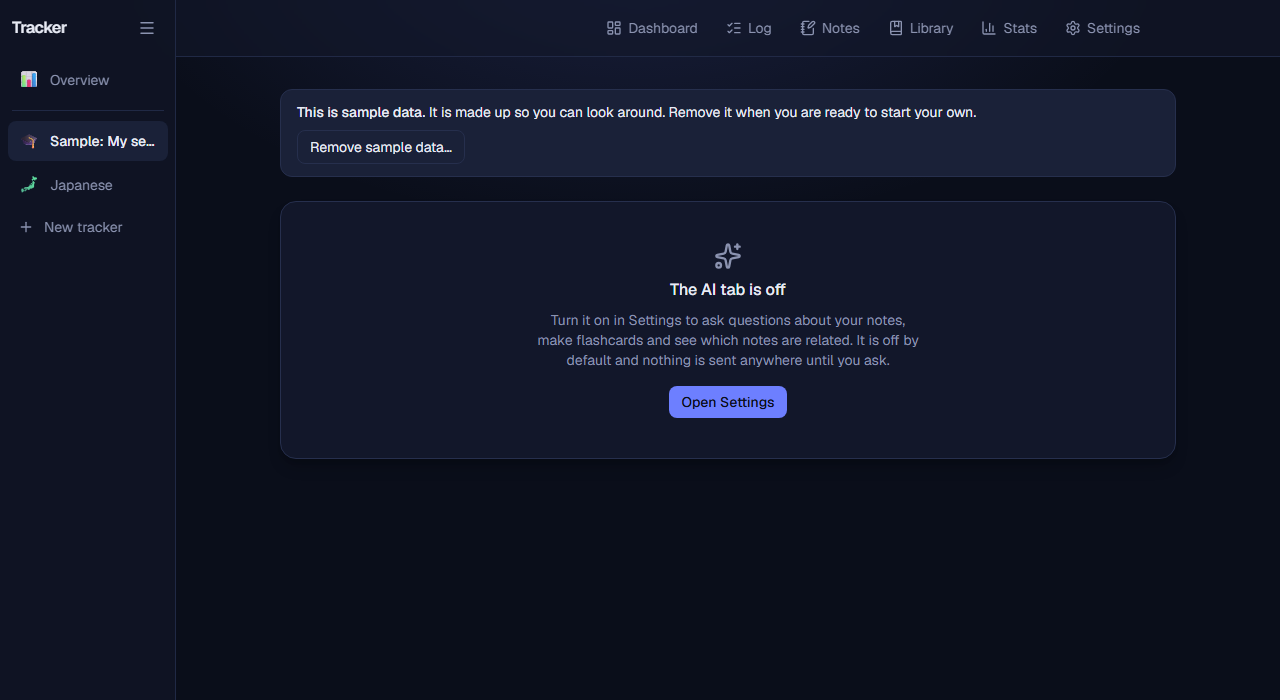
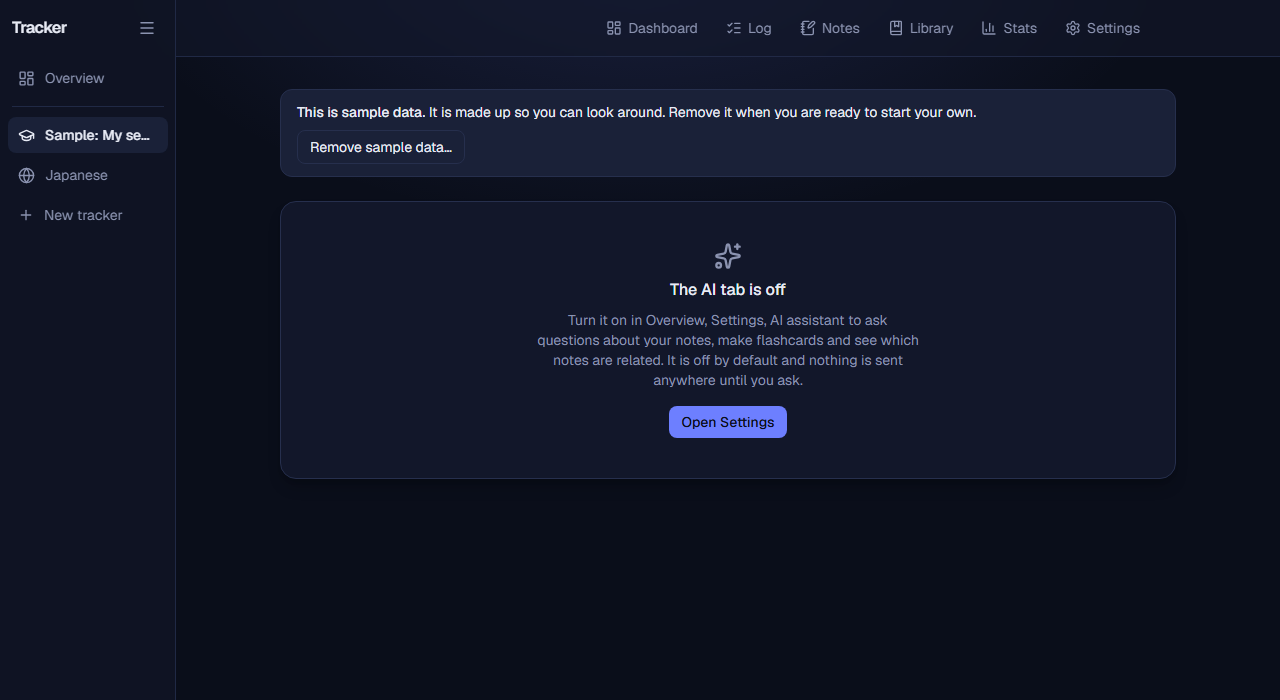
Update the site

diff --git a/docs/manual.html b/docs/manual.html
@@ -23,7 +23,7 @@
   </header>
 
   <h1>The full user manual</h1>
-  <p class="lead">Everything Tracker does, part by part. New here? Start with <a href="guide.html">Getting started in ten minutes</a>. This manual describes version 0.4.0; later versions may add things, and Settings, About lists what changed.</p>
+  <p class="lead">Everything Tracker does, part by part. New here? Start with <a href="guide.html">Getting started in ten minutes</a>. This manual describes version 0.5.0; later versions may add things, and Overview, Settings, About lists what changed.</p>
 
   <div class="layout">
     <nav class="toc" aria-label="Contents">
@@ -72,6 +72,7 @@
         <table>
           <tr><th>Piece</th><th>What it is</th></tr>
           <tr><td><strong>Tracker</strong></td><td>One area of your life or studies, for example &ldquo;Japanese&rdquo; or &ldquo;My degree&rdquo;. You can have as many as you like; each has its own pages, courses, activities, notes and library. They are listed in the sidebar.</td></tr>
+          <tr><td><strong>Symbol</strong></td><td>The small icon of a tracker, picked from a set (there are no emoji). It is shown in the sidebar and on the Overview.</td></tr>
           <tr><td><strong>Course</strong></td><td>A part of a tracker: a course, a language, a topic. You choose the word (Course, Skill, Language, Topic...). It also appears as a &ldquo;subfield&rdquo; in some places.</td></tr>
           <tr><td><strong>Activity</strong></td><td>What you did: Reading, Lecture, Practice, Listening, Writing...</td></tr>
           <tr><td><strong>Session</strong></td><td>One stretch of time: a course, an activity, a start, a length, and optionally a note and a book.</td></tr>
@@ -79,7 +80,8 @@
           <tr><td><strong>Book or article</strong></td><td>A text in your Library that you read and can attach sessions and notes to.</td></tr>
           <tr><td><strong>Goal</strong></td><td>A weekly or total number of hours for a course, or a daily goal for the tracker.</td></tr>
         </table>
-        <p>Each tracker has six pages along the top: <strong>Dashboard</strong>, <strong>Log</strong>, <strong>Notes</strong>, <strong>Library</strong>, <strong>Stats</strong> and <strong>Settings</strong>. <strong>Overview</strong>, at the top of the sidebar, combines all your trackers.</p>
+        <p>Each tracker has six pages along the top: <strong>Dashboard</strong>, <strong>Log</strong>, <strong>Notes</strong>, <strong>Library</strong>, <strong>Stats</strong> and <strong>Settings</strong>, which holds the settings of that tracker only (its courses, activities, name, symbol and goals). <strong>Overview</strong>, at the top of the sidebar, combines all your trackers and has two pages of its own: <strong>Overview</strong> and <strong>Settings</strong>, which holds the settings of the whole program (data and backups, theme, library, book search, the AI assistant, the notes graph, privacy and about). In this manual, &ldquo;Overview, Settings, Privacy&rdquo; means the Privacy section of that second page.</p>
+        <figure class="shot"><a class="zoom" href="img/settings-general.png"><img src="img/settings-general.png" width="1280" height="900" alt="The settings of the Overview: the Overview and Settings tabs at the top, Data and backups open with its download buttons, Back up now and Import from a file, and the sections Theme, Library and Book search minimised below it." loading="lazy"></a><figcaption>Overview, Settings, with some sections minimised.</figcaption></figure>
 
         <h2 id="running">2. Installing, starting, quitting</h2>
         <h3>Installing</h3>
@@ -88,7 +90,7 @@
         <p>Start Tracker from the Start menu or the Desktop shortcut. It runs quietly in the background with no window of its own, opens in your default browser, and puts a small icon near the clock (if you cannot see it, click the little arrow next to the clock). <strong>Click the icon</strong> to open Tracker in the browser; <strong>right-click</strong> it for <em>Open Tracker</em>, <em>Show the log folder</em> and <em>Quit Tracker</em>. Starting Tracker a second time just opens the first one.</p>
         <p>The address in the browser is <code>http://localhost:3417</code> (or a nearby number if that one is busy). It works only on your computer: no other device on your network can open it, which is also why you cannot open Tracker from a phone.</p>
         <h3>Quitting</h3>
-        <p>Right-click the icon and choose <strong>Quit Tracker</strong>, or press <strong>Quit Tracker</strong> in Settings, About. Closing the browser tab does not stop Tracker, and a running timer is kept (it lives in your browser, see <a href="#timer">The timer</a>).</p>
+        <p>Right-click the icon and choose <strong>Quit Tracker</strong>, or press <strong>Quit Tracker</strong> in Overview, Settings, About. Closing the browser tab does not stop Tracker, and a running timer is kept (it lives in your browser, see <a href="#timer">The timer</a>).</p>
         <h3>Removing it</h3>
         <p>Windows Settings, Apps, Installed apps, Tracker, Uninstall. It asks whether to delete your data as well; the default is <strong>No</strong>, so installing Tracker again later carries on where you left off.</p>
 
@@ -96,14 +98,14 @@
         <p>The first time you open Tracker you see the welcome page.</p>
         <figure class="shot"><a class="zoom" href="img/welcome.png"><img src="img/welcome.png" width="1280" height="940" alt="The Tracker welcome page with four starting points and a button to try the sample data." loading="lazy"></a><figcaption>The welcome page.</figcaption></figure>
         <ul>
-          <li><strong>Start with your own tracker.</strong> Choose <em>A language I am learning</em>, <em>My studies (courses or a degree)</em>, <em>Research or a thesis</em> or <em>Something else</em>. Each comes with sensible activities. Then name it, say what each part is called (one word, like Course, Language or Topic) and optionally type your first ones separated by commas. <em>Create my tracker</em> makes it.</li>
+          <li><strong>Start with your own tracker.</strong> Choose <em>A language I am learning</em>, <em>My studies (courses or a degree)</em>, <em>Research or a thesis</em> or <em>Something else</em>. Each comes with sensible activities and a symbol you can change later. Then name it, say what each part is called (one word, like Course, Language or Topic) and optionally type your first ones separated by commas. <em>Create my tracker</em> makes it.</li>
           <li><strong>Try it with sample data.</strong> Adds a made-up semester: three courses, four weeks of sessions, six linked notes, two books and goals. A banner on every page says it is sample data and has <em>Remove sample data</em>, which takes only the sample away (a copy of your data is saved first).</li>
           <li><strong>I already have a copy of my data.</strong> Opens the restore and import options, for a copy or export from another computer (see <a href="#data">Backups, exports, moving</a>).</li>
         </ul>
-        <p><strong>More trackers:</strong> press <strong>New tracker</strong> at the bottom of the sidebar. <strong>Changing one:</strong> Settings, <em>This tracker</em> lets you change its emoji and name, what each part is called, its daily goal, and its order in the sidebar. <strong>Deleting one:</strong> <em>Delete this tracker</em> in the same place. Tracker shows what will be removed (sessions, courses, activities, notes and books), and if the tracker holds any sessions, notes or books it asks you to type the tracker&rsquo;s name before <em>Delete permanently</em> works. A copy of your data is saved first (&ldquo;Before a delete&rdquo; in the list of saved copies).</p>
+        <p><strong>More trackers:</strong> press <strong>New tracker</strong> at the bottom of the sidebar. <strong>Changing one:</strong> its own Settings, <em>This tracker</em>, lets you change its <strong>symbol</strong> (an icon chosen from a set, which also shows in the sidebar and on the Overview) and name, what each part is called, its daily goal, and its order in the sidebar. <strong>Deleting one:</strong> <em>Delete this tracker</em> in the same place. Tracker shows what will be removed (sessions, courses, activities, notes and books), and if the tracker holds any sessions, notes or books it asks you to type the tracker&rsquo;s name before <em>Delete permanently</em> works. A copy of your data is saved first (&ldquo;Before a delete&rdquo; in the list of saved copies).</p>
 
         <h2 id="courses">4. Courses and activities</h2>
-        <p>Both are managed in <strong>Settings</strong>, in the lists at the top. You can add, rename, recolour and delete them, and drag the grip (or focus it and use the arrow keys) to put them in the order you like.</p>
+        <p>Both are managed in the tracker&rsquo;s own <strong>Settings</strong>, in the lists at the top. You can add, rename, recolour and delete them, and drag the grip (or focus it and use the arrow keys) to put them in the order you like.</p>
         <figure class="shot"><a class="zoom" href="img/settings.png"><img src="img/settings.png" width="1280" height="900" alt="The settings page: three courses with weekly goal, total goal and passive controls, and the activities list below them." loading="lazy"></a><figcaption>Courses and activities in Settings.</figcaption></figure>
         <h3>Courses</h3>
         <ul>
@@ -188,7 +190,7 @@
           <li><strong>Full window</strong> (next to Fullscreen) makes the graph fill this browser window, without taking over the screen. It is for people who keep Tracker in a smaller window beside other things. The tick boxes and Fit come along, <kbd>Esc</kbd> leaves it, and <em>Open note</em> leaves it before showing the note. It works together with Fullscreen.</li>
           <li><strong>Fullscreen</strong> (when your browser allows it) gives the graph the whole screen. <kbd>Esc</kbd> leaves it.</li>
           <li>A connection can carry a short <strong>comment</strong> that keeps its history, so you can write why two notes belong together. The comment is written along the line, tilted with it and cut with &ldquo;...&rdquo; to fit between the two dots; select the line to read it in full.</li>
-          <li>In Settings, <em>Notes graph</em> lets you choose the shape of each kind of dot and how the graph moves (it follows your computer&rsquo;s &ldquo;reduce motion&rdquo; setting by default).</li>
+          <li>In Overview, Settings, <em>Notes graph</em> you can choose the shape of each kind of dot and how the graph moves (it follows your computer&rsquo;s &ldquo;reduce motion&rdquo; setting by default).</li>
         </ul>
         <figure class="shot"><a class="zoom" href="img/graph-fullscreen.png"><img src="img/graph-fullscreen.png" width="1280" height="800" alt="The notes graph shown fullscreen, with a bubble beside the clicked note Research questions showing its course, its text, the notes it connects to and the buttons Open note, Connect to and Clear." loading="lazy"></a><figcaption>Fullscreen: the details of a clicked note open in a bubble beside its dot.</figcaption></figure>
 
@@ -206,7 +208,7 @@
         <h3>Reading a text</h3>
         <ul>
           <li><strong>Status</strong>: To read, Reading, Paused, Read. Starting to read and finishing are dated for you.</li>
-          <li><strong>Now on page</strong>: type the page you are on. Tracker shows the percent done, <em>pages per hour</em> from your timed sessions, and the time left (&ldquo;about 4 h left&rdquo;). Settings, Library can also add a guess of how many weeks that is at your recent pace; it is <strong>off by default</strong> because it is only a rough guess, and the hours are useful on their own.</li>
+          <li><strong>Now on page</strong>: type the page you are on. Tracker shows the percent done, <em>pages per hour</em> from your timed sessions, and the time left (&ldquo;about 4 h left&rdquo;). Overview, Settings, Library can also add a guess of how many weeks that is at your recent pace; it is <strong>off by default</strong> because it is only a rough guess, and the hours are useful on their own.</li>
           <li>Pick the text in the timer and the session counts towards it (&ldquo;4h in 3 sessions, last today&rdquo;).</li>
           <li>Notes about a text show how many there are, and can name the page they are about.</li>
           <li>Filter by course, search with <strong>Search the library</strong>, and use <strong>Covers</strong> to show or hide the pictures.</li>
@@ -214,40 +216,41 @@
         <h3>Citations and sharing</h3>
         <p><strong>Import and export</strong> (below the list) copies your citations as <strong>BibTeX</strong> or <strong>RIS</strong> for a reference manager or paper, and reads those formats back in.</p>
         <h3>Better search with keys (optional)</h3>
-        <p>Open Library and Crossref are free but do not know every edition. In Settings, <em>Book search</em>, you can add an <strong>ISBNdb</strong> key (a paid service with a short free trial, with a large catalogue in many languages) and/or a <strong>Google Books</strong> key (free, with limits; you create it in Google Cloud Console). A key is checked when you save it, kept only on your computer, never shown again, and sent only to its own service.</p>
+        <p>Open Library and Crossref are free but do not know every edition. In Overview, Settings, <em>Book search</em>, you can add an <strong>ISBNdb</strong> key (a paid service with a short free trial, with a large catalogue in many languages) and/or a <strong>Google Books</strong> key (free, with limits; you create it in Google Cloud Console). A key is checked when you save it, kept only on your computer, never shown again, and sent only to its own service.</p>
 
         <h2 id="ai">12. The AI tab</h2>
         <p>Optional and <strong>off by default</strong>. Until you turn it on, the tab shows &ldquo;The AI tab is off&rdquo; and nothing is ever sent anywhere.</p>
         <figure class="shot"><a class="zoom" href="img/ai-off.png"><img src="img/ai-off.png" width="1280" height="700" alt="The AI page showing that the AI tab is off by default, with a button to open Settings." loading="lazy"></a><figcaption>The AI tab, switched off.</figcaption></figure>
         <h3>Turning it on</h3>
-        <p>Settings, <em>AI assistant</em>, <em>Show the AI tab</em>. Then choose an engine:</p>
+        <p>Overview, Settings, <em>AI assistant</em>, <em>Show the AI tab</em>. Then choose an engine:</p>
         <ul>
           <li><strong>Ollama</strong> (recommended for privacy): a free program from ollama.com that runs language models on your own computer. Install and start it, and Tracker finds it at the address shown (<em>Where Ollama is running</em>; the default is right unless it runs on another computer; if it cannot be reached, Tracker says so and has a <em>check again</em> link). Under <em>Suggested for this computer</em> Tracker recommends models that suit your computer&rsquo;s memory and graphics card and can ask Ollama to download them, with a progress bar. Choose a <em>Model that answers questions</em> and, optionally, a <em>Model that searches your notes</em> (without one, Tracker matches words only; a multilingual one finds notes by meaning). <em>Test the connection</em> checks that they work. Nothing leaves your computer.</li>
           <li><strong>An online service</strong> that works like OpenAI&rsquo;s: a <em>Service address</em> (OpenAI and many others use one ending in /v1), a <em>Chat model</em>, a <em>Search model</em> and a <em>Key</em> (<em>Save key</em>, or <em>Remove</em> it again). Use this only if you accept that the text of your notes that the AI needs is sent to that company.</li>
         </ul>
         <h3>Ask your notes</h3>
-        <p>Type a question. Tracker finds the pieces of your notes and books that match (it reads them in small pieces through a search index; Settings, <em>AI assistant</em>, shows how many pieces are indexed and has <em>Update the search index</em> to bring it up to date), and the model answers <strong>only from them</strong>, naming its sources as numbered citations you can click to open the note. If your notes do not contain the answer it says so. A question about your study time (&ldquo;how many hours did I spend on Statistics this week?&rdquo;) is answered from your real totals, not from the model&rsquo;s arithmetic. Your conversations are listed so you can reopen, rename or delete them.</p>
+        <p>Type a question. Tracker finds the pieces of your notes and books that match (it reads them in small pieces through a search index; Overview, Settings, <em>AI assistant</em>, shows how many pieces are indexed across all your trackers and has <em>Update the search index</em> to bring the index of every tracker up to date), and the model answers <strong>only from them</strong>, naming its sources as numbered citations you can click to open the note. If your notes do not contain the answer it says so. A question about your study time (&ldquo;how many hours did I spend on Statistics this week?&rdquo;) is answered from your real totals, not from the model&rsquo;s arithmetic. Your conversations are listed so you can reopen, rename or delete them.</p>
         <h3>Flashcards</h3>
         <p>Choose <em>Make cards from your notes</em>, pick a note (or the notes about a book) and the model proposes cards you can edit, then save. You can also add a card by hand with a front and a back. <strong>Review</strong> shows the cards that are due; you answer <em>Again</em>, <em>Hard</em>, <em>Good</em> or <em>Easy</em>, and each card comes back after a longer gap the better you knew it (a new card returns after 10 minutes, then days, then weeks).</p>
         <div class="note"><p><strong>What is sent:</strong> with Ollama on this computer, nothing leaves it. With another computer or an online service, your questions and the notes needed to answer go there. <a href="#privacy">The Privacy section</a> spells it out.</p></div>
 
         <h2 id="look">13. Themes and looks</h2>
-        <p>Settings, <em>Theme</em> offers six themes: <strong>Midnight</strong> (the default dark one), <strong>Black</strong>, <strong>Light</strong>, <strong>Forest</strong>, <strong>Rose</strong> and <strong>Frutiger Aero</strong> (a glassy, see-through style), plus <strong>Custom</strong>.</p>
+        <p>Overview, Settings, <em>Theme</em> offers six themes: <strong>Midnight</strong> (the default dark one), <strong>Black</strong>, <strong>Light</strong>, <strong>Forest</strong>, <strong>Rose</strong> and <strong>Frutiger Aero</strong> (a glassy, see-through style), plus <strong>Custom</strong>.</p>
         <figure class="shot"><a class="zoom" href="img/themes.png"><img src="img/themes.png" width="1472" height="624" alt="The same dashboard shown in six themes: midnight, light, forest, rose, black and Frutiger Aero." loading="lazy"></a><figcaption>The same page in six themes.</figcaption></figure>
         <figure class="shot"><a class="zoom" href="img/settings-theme.png"><img src="img/settings-theme.png" width="1280" height="960" alt="The theme part of settings with the theme choices and the Customize panel open, showing colour pickers." loading="lazy"></a><figcaption>Choosing and customising a theme.</figcaption></figure>
         <ul>
           <li><strong>Customize</strong> (under the themes) changes any theme&rsquo;s colours one by one, the <em>font</em> (the theme&rsquo;s own, a system font, or one you name), the <em>text size</em> and how <em>round</em> the corners are. Everything shows on the page at once. A small button puts any colour back; <em>Reset</em> restores the theme.</li>
           <li>If the colours you pick make some text hard to read, a warning says which text and how far off it is. Every built-in theme passes the standard readability rule (WCAG AA).</li>
           <li><strong>Custom</strong> starts from the colours of any theme you pick and lets you build your own.</li>
-          <li>Theme and look are remembered in this browser and apply to every tracker. <em>Show cover pictures</em> (Settings, Library) hides or shows book covers everywhere.</li>
+          <li><strong>Minimise what you do not use.</strong> Every section of both settings pages has a title you can click to minimise it (and again to open it). The choice is remembered in this browser, and a link that points at a minimised section opens it.</li>
+          <li>Theme and look are remembered in this browser and apply to every tracker. <em>Show cover pictures</em> (Overview, Settings, Library) hides or shows book covers everywhere.</li>
         </ul>
         <p>The pages also fit a narrow window or a small screen:</p>
         <figure class="shot" style="max-width:300px"><a class="zoom" href="img/phone.png"><img src="img/phone.png" width="390" height="844" alt="The dashboard in a narrow window, with the timer filling the width." loading="lazy"></a><figcaption>A narrow window. (Tracker still runs only on your computer.)</figcaption></figure>
 
         <h2 id="data">14. Backups, exports, moving</h2>
-        <figure class="shot"><a class="zoom" href="img/settings-data.png"><img src="img/settings-data.png" width="1280" height="900" alt="Data and backups in settings: three download buttons, Back up now, Import from a file, and saved copies with Restore." loading="lazy"></a><figcaption>Settings, Data and backups.</figcaption></figure>
+        <figure class="shot"><a class="zoom" href="img/settings-data.png"><img src="img/settings-data.png" width="1280" height="900" alt="Data and backups in settings: three download buttons, Back up now, Import from a file, and saved copies with Restore." loading="lazy"></a><figcaption>Overview, Settings, Data and backups.</figcaption></figure>
         <h3>Where your data is</h3>
-        <p>Everything (sessions, notes, books, pictures and covers) is in one file, <code>tracker.db</code>, in <code>%LOCALAPPDATA%\Tracker\data</code> (paste that into the File Explorer address bar). Saved copies are in its <code>backups</code> folder. Settings, Privacy lists all the places for your computer.</p>
+        <p>Everything (sessions, notes, books, pictures and covers) is in one file, <code>tracker.db</code>, in <code>%LOCALAPPDATA%\Tracker\data</code> (paste that into the File Explorer address bar). Saved copies are in its <code>backups</code> folder. Overview, Settings, Privacy lists all the places for your computer.</p>
         <h3>Saved copies</h3>
         <ul>
           <li>Tracker saves one copy automatically each day and keeps the last 14. <strong>Back up now</strong> makes one on request; those are kept until you remove them.</li>
@@ -273,9 +276,9 @@
         <figure class="shot"><a class="zoom" href="img/damaged.png"><img src="img/damaged.png" width="1280" height="900" alt="The page Tracker shows when its data file is damaged: what to do, and a list of saved copies with a Use this copy button." loading="lazy"></a><figcaption>The recovery page.</figcaption></figure>
 
         <h2 id="updates">15. Updates</h2>
-        <figure class="shot"><a class="zoom" href="img/about.png"><img src="img/about.png" width="1280" height="960" alt="The About part of settings: the version, what changed, and the update options." loading="lazy"></a><figcaption>Settings, About.</figcaption></figure>
+        <figure class="shot"><a class="zoom" href="img/about.png"><img src="img/about.png" width="1280" height="960" alt="The About part of settings: the version, what changed, and the update options." loading="lazy"></a><figcaption>Overview, Settings, About.</figcaption></figure>
         <ul>
-          <li>Settings, About also has a link to the <a href="terms.html">terms of use</a>, the contact address and the GitHub issues page. They are links you click; Tracker sends nothing by itself.</li>
+          <li>Overview, Settings, About also has a link to the <a href="terms.html">terms of use</a>, the contact address and the GitHub issues page. They are links you click; Tracker sends nothing by itself.</li>
           <li><strong>Check now</strong> asks whether a newer version exists. It is the only thing that contacts anyone unless you turn the next option on.</li>
           <li><strong>Check for updates once a day</strong> (off by default) does the same by itself, once a day.</li>
           <li>When a newer version exists, <strong>Update now</strong> downloads it from GitHub (about 45 MB), checks that it is the file signed for Tracker, saves a copy of your data, closes Tracker, installs it and opens Tracker again; the page reloads by itself. Your data stays as it is.</li>
@@ -296,14 +299,14 @@
           <tr><td>AI with an online service</td><td>Only if you choose it and save a key</td><td>The same, to that service, with your key. The one case where the text of your notes leaves your computer.</td></tr>
           <tr><td>Updates</td><td>Check now, the daily check, Update now (the last two are off by default)</td><td>A request for one small file that carries only &ldquo;Tracker&rdquo; and the version; then the installer file if you update.</td></tr>
         </table>
-        <p>There are no analytics, crash reports, accounts or advertising. Fonts and icons are part of the program. Inside Tracker, <strong>Settings, Privacy</strong> shows this list again with <em>your</em> settings (&ldquo;Right now&rdquo;), the sites each item talks to, how to stop it and where everything is kept, and a test checks that list against the program&rsquo;s code.</p>
-        <figure class="shot"><a class="zoom" href="img/privacy.png"><img src="img/privacy.png" width="1280" height="900" alt="The Privacy section inside Tracker with a summary of what is happening now and a list of what can leave the computer." loading="lazy"></a><figcaption>Settings, Privacy.</figcaption></figure>
+        <p>There are no analytics, crash reports, accounts or advertising. Fonts and icons are part of the program. Inside Tracker, <strong>Overview, Settings, Privacy</strong> shows this list again with <em>your</em> settings (&ldquo;Right now&rdquo;), the sites each item talks to, how to stop it and where everything is kept, and a test checks that list against the program&rsquo;s code.</p>
+        <figure class="shot"><a class="zoom" href="img/privacy.png"><img src="img/privacy.png" width="1280" height="900" alt="The Privacy section inside Tracker with a summary of what is happening now and a list of what can leave the computer." loading="lazy"></a><figcaption>Overview, Settings, Privacy.</figcaption></figure>
 
         <h2 id="accessibility">17. Keyboard and accessibility</h2>
         <ul>
           <li>Everything can be done with the keyboard: <kbd>Tab</kbd> and <kbd>Shift</kbd>+<kbd>Tab</kbd> move between controls, <kbd>Enter</kbd> or <kbd>Space</kbd> press them, and the focus is always visible.</li>
           <li>Windows that open on top (New tracker, adding a book) keep <kbd>Tab</kbd> inside them, close with <kbd>Esc</kbd> and give the focus back to what opened them.</li>
-          <li>In a list with a grip (courses, activities, notes), focus the grip and press <kbd>Up</kbd> or <kbd>Down</kbd> to move the item. On touch screens it becomes two small arrow buttons. Trackers in the sidebar are moved with the <em>Move up</em> and <em>Move down</em> buttons in Settings.</li>
+          <li>In a list with a grip (courses, activities, notes), focus the grip and press <kbd>Up</kbd> or <kbd>Down</kbd> to move the item. On touch screens it becomes two small arrow buttons. Trackers in the sidebar are moved with the <em>Move up</em> and <em>Move down</em> buttons in each tracker&rsquo;s Settings, under <em>This tracker</em>.</li>
           <li><kbd>Ctrl</kbd>+<kbd>Enter</kbd> saves a note.</li>
           <li>Every button and field has a name a screen reader can read, each page has a heading, and error messages are announced when they appear.</li>
           <li>Text in every built-in theme meets the WCAG AA contrast of 4.5 to 1, and the theme editor warns about colours that do not. Calendar squares are at least 24 pixels wide.</li>
@@ -318,12 +321,12 @@
         <details><summary>&ldquo;Your data file is damaged&rdquo;</summary><p>Choose the newest saved copy listed and press <strong>Use this copy</strong>. The damaged file is kept in the <code>damaged</code> folder. See <a href="#data">Backups</a>. If no copy is listed, close Tracker and look in the <code>backups</code> folder shown on that page; the copies there are ordinary <code>.db</code> files, and someone you trust can help you look.</p></details>
         <details><summary>&ldquo;The disk is full&rdquo;, or a save fails</summary><p>Free some space (empty the Recycle Bin, remove files you do not need) and try again. What you saved earlier is safe, and a running timer keeps running until a save works.</p></details>
         <details><summary>&ldquo;Tracker cannot write to its data&rdquo; or &ldquo;Your data is busy&rdquo;</summary><p>A security or sync program may be holding the data folder. Wait a few seconds and retry; if it keeps happening, allow Tracker to use <code>%LOCALAPPDATA%\Tracker</code>.</p></details>
-        <details><summary>A book search finds nothing, or says a service did not answer</summary><p>Check your internet connection. Open Library does not know every edition; add an ISBNdb or Google Books key in Settings (see <a href="#library">The Library</a>), or choose <em>Enter it by hand instead</em>. A search for an article needs its DOI or title words (Crossref).</p></details>
+        <details><summary>A book search finds nothing, or says a service did not answer</summary><p>Check your internet connection. Open Library does not know every edition; add an ISBNdb or Google Books key in Overview, Settings, Book search (see <a href="#library">The Library</a>), or choose <em>Enter it by hand instead</em>. A search for an article needs its DOI or title words (Crossref).</p></details>
         <details><summary>Update now does not work</summary><p>It says why. If it fails to download, check your connection and try again; you can always run the newest <a href="https://github.com/cliteka-cell/tracker-releases/releases/latest/download/Tracker-Setup.exe">Tracker-Setup.exe</a> by hand. Version 0.3.0 could give up on computers where looking up GitHub&rsquo;s address is slow; 0.3.1 fixed that, so update by hand to 0.3.1 or later once.</p></details>
-        <details><summary>The AI tab says to choose a model, or cannot reach Ollama</summary><p>Install Ollama from ollama.com and make sure it is running (its icon is near the clock), then open Settings, <em>AI assistant</em>, and press check again. Choose a model that answers questions (and, optionally, one that searches your notes); the suggestions listed for your computer can be downloaded from there. <em>Test the connection</em> tells you which part fails.</p></details>
-        <details><summary>&ldquo;Tracker cannot find its data file&rdquo;</summary><p>The data file is not where Tracker expects it, or cannot be opened. Close Tracker and open it again. If the file is really gone, Tracker starts fresh, and your saved copies are still in the <code>backups</code> folder: open Settings, Data and backups, and restore one.</p></details>
+        <details><summary>The AI tab says to choose a model, or cannot reach Ollama</summary><p>Install Ollama from ollama.com and make sure it is running (its icon is near the clock), then open Overview, Settings, <em>AI assistant</em>, and press check again. Choose a model that answers questions (and, optionally, one that searches your notes); the suggestions listed for your computer can be downloaded from there. <em>Test the connection</em> tells you which part fails.</p></details>
+        <details><summary>&ldquo;Tracker cannot find its data file&rdquo;</summary><p>The data file is not where Tracker expects it, or cannot be opened. Close Tracker and open it again. If the file is really gone, Tracker starts fresh, and your saved copies are still in the <code>backups</code> folder: open Overview, Settings, Data and backups, and restore one.</p></details>
         <details><summary>I started a timer on one computer and cannot see it on another</summary><p>The running timer lives in the browser it was started in. Tracker data does not sync between computers; save the session where you started it.</p></details>
-        <details><summary>Where is the log, and what do I send when I ask for help?</summary><p>Right-click the Tracker icon and choose <em>Show the log folder</em> (or see Settings, About). It is a plain text file named <code>tracker.log</code>. A failed save can leave a piece of what you were saving in it, so read it before you send it to anyone (for example to <a href="mailto:clite.ka@gmail.com">clite.ka@gmail.com</a>), and send only what you are comfortable with.</p></details>
+        <details><summary>Where is the log, and what do I send when I ask for help?</summary><p>Right-click the Tracker icon and choose <em>Show the log folder</em> (or see Overview, Settings, About). It is a plain text file named <code>tracker.log</code>. A failed save can leave a piece of what you were saving in it, so read it before you send it to anyone (for example to <a href="mailto:clite.ka@gmail.com">clite.ka@gmail.com</a>), and send only what you are comfortable with.</p></details>
         <details><summary>How do I remove all my data?</summary><p>Uninstall Tracker and answer <strong>Yes</strong> when it asks about your data, or delete the <code>%LOCALAPPDATA%\Tracker</code> folder with Tracker closed. This cannot be undone, so make a complete copy first if you might want it.</p></details>
 
         <h2 id="faq">19. Questions</h2>
@@ -348,7 +351,7 @@
           <tr><td>ISBN / DOI</td><td>The number that identifies a book (ISBN) or an article (DOI).</td></tr>
           <tr><td>BibTeX / RIS</td><td>Formats that reference managers and word processors use for citations.</td></tr>
           <tr><td>Ollama</td><td>A free program that runs AI language models on your own computer.</td></tr>
-          <tr><td>Search index</td><td>What lets the AI find the right pieces of your notes; refreshed with &ldquo;Update the search index&rdquo; in Settings.</td></tr>
+          <tr><td>Search index</td><td>What lets the AI find the right pieces of your notes; refreshed with &ldquo;Update the search index&rdquo; in Overview, Settings, AI assistant.</td></tr>
           <tr><td>Spaced repetition</td><td>Showing a flashcard again after a longer gap each time you know it.</td></tr>
           <tr><td>Complete copy</td><td>A single file holding all your data, which Restore accepts.</td></tr>
           <tr><td>SHA-256 checksum</td><td>A fingerprint of a file; if two files have the same one, they are identical.</td></tr>

diff --git a/docs/index.html b/docs/index.html
@@ -175,7 +175,7 @@ footer p { margin: 0 0 8px; }
           <li><strong>The AI tab</strong> is off by default. With a model on your own computer, nothing leaves it. With an online service you choose and give a key to, the text it needs to answer does go to that service.</li>
           <li><strong>Updates</strong> ask GitHub for one small file when you press Check now, or once a day if you turn that on. They carry only the program&rsquo;s name and version.</li>
         </ul>
-        <p style="margin:12px 0 0">There are no analytics, crash reports or advertising, and the program only answers to your own computer. Inside Tracker, <strong>Settings, Privacy</strong> lists all of this again with your own settings, and it is checked against the program&rsquo;s code by a test.</p>
+        <p style="margin:12px 0 0">There are no analytics, crash reports or advertising, and the program only answers to your own computer. Inside Tracker, <strong>Overview, Settings, Privacy</strong> lists all of this again with your own settings, and it is checked against the program&rsquo;s code by a test.</p>
       </div>
       <figure class="shot" style="margin-top:24px"><a class="zoom" href="img/privacy.png"><img loading="lazy" src="img/privacy.png" width="1280" height="900" alt="The Privacy section of Tracker's settings: a summary of what is happening right now with the person's settings, and a list of what can leave the computer, each item with when, what is sent, where to and how to stop it."></a><figcaption>The Privacy section inside the program.</figcaption></figure>
     </section>
@@ -194,8 +194,8 @@ footer p { margin: 0 0 8px; }
       <h2 id="questions-title">Questions</h2>
       <details><summary>Is it really free? Is it open source?</summary><p>It is free: downloading and using Tracker costs nothing. It is not open source: the program&rsquo;s code is not published. The <a href="terms.html">terms of use</a> say what you may do with it.</p></details>
       <details><summary>Does it work without the internet?</summary><p>Yes. The timer, log, notes, goals, stats, backups and the AI tab with a model on your own computer all work offline. Only book lookups, covers, updates and an online AI service need a connection.</p></details>
-      <details><summary>Can I move to another computer?</summary><p>Yes. In Settings you can take everything with you as one file or as a zip of readable data (pictures included), and restore it on the other computer. Saved keys are left out of those files on purpose.</p></details>
-      <details><summary>What if something breaks?</summary><p>Tracker explains problems in plain words (a full disk, a damaged data file) and keeps a log file; Settings, About shows where. If you ask for help, read the log first: a failed save can leave a piece of what you were saving in it. You can <a href="https://github.com/cliteka-cell/tracker-releases/issues">open an issue on GitHub</a>, or write to <a href="mailto:clite.ka@gmail.com">clite.ka@gmail.com</a>.</p></details>
+      <details><summary>Can I move to another computer?</summary><p>Yes. In Overview, Settings, Data and backups you can take everything with you as one file or as a zip of readable data (pictures included), and restore it on the other computer. Saved keys are left out of those files on purpose.</p></details>
+      <details><summary>What if something breaks?</summary><p>Tracker explains problems in plain words (a full disk, a damaged data file) and keeps a log file; Overview, Settings, About shows where. If you ask for help, read the log first: a failed save can leave a piece of what you were saving in it. You can <a href="https://github.com/cliteka-cell/tracker-releases/issues">open an issue on GitHub</a>, or write to <a href="mailto:clite.ka@gmail.com">clite.ka@gmail.com</a>.</p></details>
       <details><summary>How do I get in touch?</summary><p>Write to <a href="mailto:clite.ka@gmail.com">clite.ka@gmail.com</a>, or <a href="https://github.com/cliteka-cell/tracker-releases/issues">open an issue on GitHub</a> if you have a GitHub account. Questions, problems and ideas are all welcome.</p></details>
       <details><summary>What about Mac and Linux?</summary><p>Not yet. The program is built for Windows 10 and 11 (64-bit) only for now.</p></details>
     </section>

diff --git a/docs/guide.html b/docs/guide.html
@@ -73,7 +73,7 @@
 
       <li class="step" id="safe">
         <h2 style="margin-top:0;border-top:0;padding-top:0">Keep your data safe</h2>
-        <p>Tracker saves a copy of your data automatically once a day and keeps the last 14. In <strong>Settings, Data and backups</strong> you can press <strong>Back up now</strong>, put any saved copy back with <strong>Restore</strong>, bring in a file from anywhere on your computer with <strong>Import from a file</strong> (it shows what is in the copy first, and keeps what you have now so the restore can be undone), and download everything as one file, as a zip of readable data, or your sessions as a spreadsheet. The saved copies are on the same computer as your data, so now and then copy that folder somewhere else.</p>
+        <p>Tracker saves a copy of your data automatically once a day and keeps the last 14. In <strong>Overview, Settings, Data and backups</strong> you can press <strong>Back up now</strong>, put any saved copy back with <strong>Restore</strong>, bring in a file from anywhere on your computer with <strong>Import from a file</strong> (it shows what is in the copy first, and keeps what you have now so the restore can be undone), and download everything as one file, as a zip of readable data, or your sessions as a spreadsheet. The saved copies are on the same computer as your data, so now and then copy that folder somewhere else.</p>
         <figure class="shot"><a class="zoom" href="img/settings-data.png"><img src="img/settings-data.png" width="1280" height="900" alt="The Data and backups part of settings: three download buttons, Back up now and Import from a file buttons and the list of saved copies, each with a Restore button." loading="lazy"></a><figcaption>Data and backups.</figcaption></figure>
       </li>
     </ol>
@@ -81,7 +81,7 @@
     <h2>Where to go next</h2>
     <ul>
       <li>The <a href="manual.html">full manual</a> explains every part of the program, including the AI tab, themes, exports, updates and what to do when something goes wrong.</li>
-      <li>Wondering what leaves your computer? Almost nothing, and <a href="manual.html#privacy">the manual lists all of it</a>. Inside Tracker, <strong>Settings, Privacy</strong> shows it with your own settings.</li>
+      <li>Wondering what leaves your computer? Almost nothing, and <a href="manual.html#privacy">the manual lists all of it</a>. Inside Tracker, <strong>Overview, Settings, Privacy</strong> shows it with your own settings.</li>
       <li>Stuck? See <a href="manual.html#troubleshooting">Troubleshooting</a>, or write to <a href="mailto:clite.ka@gmail.com">clite.ka@gmail.com</a>.</li>
     </ul>
   </main>

diff --git a/docs/terms.html b/docs/terms.html
@@ -45,7 +45,7 @@
       <p>Tracker is free to download and use. It is not open source, and these terms do not give you its source code. Tracker, its text and its pictures are &copy; 2026 Kerem Ates. These terms give you the rights written here, and all other rights are kept.</p>
 
       <h2 id="data">4. Your data is yours</h2>
-      <p>What you write and log in Tracker is stored in a file on your computer. I do not receive it, I cannot see it, and I do not own it. Tracker only contacts the services described in <a href="manual.html#privacy">the privacy part of the manual</a> (and in Settings, Privacy inside the program), and only when you use them: book search, an online AI service you set up yourself, and update checks that you ask for or turn on.</p>
+      <p>What you write and log in Tracker is stored in a file on your computer. I do not receive it, I cannot see it, and I do not own it. Tracker only contacts the services described in <a href="manual.html#privacy">the privacy part of the manual</a> (and in Overview, Settings, Privacy inside the program), and only when you use them: book search, an online AI service you set up yourself, and update checks that you ask for or turn on.</p>
       <p><strong>Making copies is your job.</strong> Tracker saves copies of your data by itself and lets you restore and export them, but those copies live on the same computer as your data. Now and then, copy them somewhere else.</p>
 
       <h2 id="services">5. Other services</h2>
